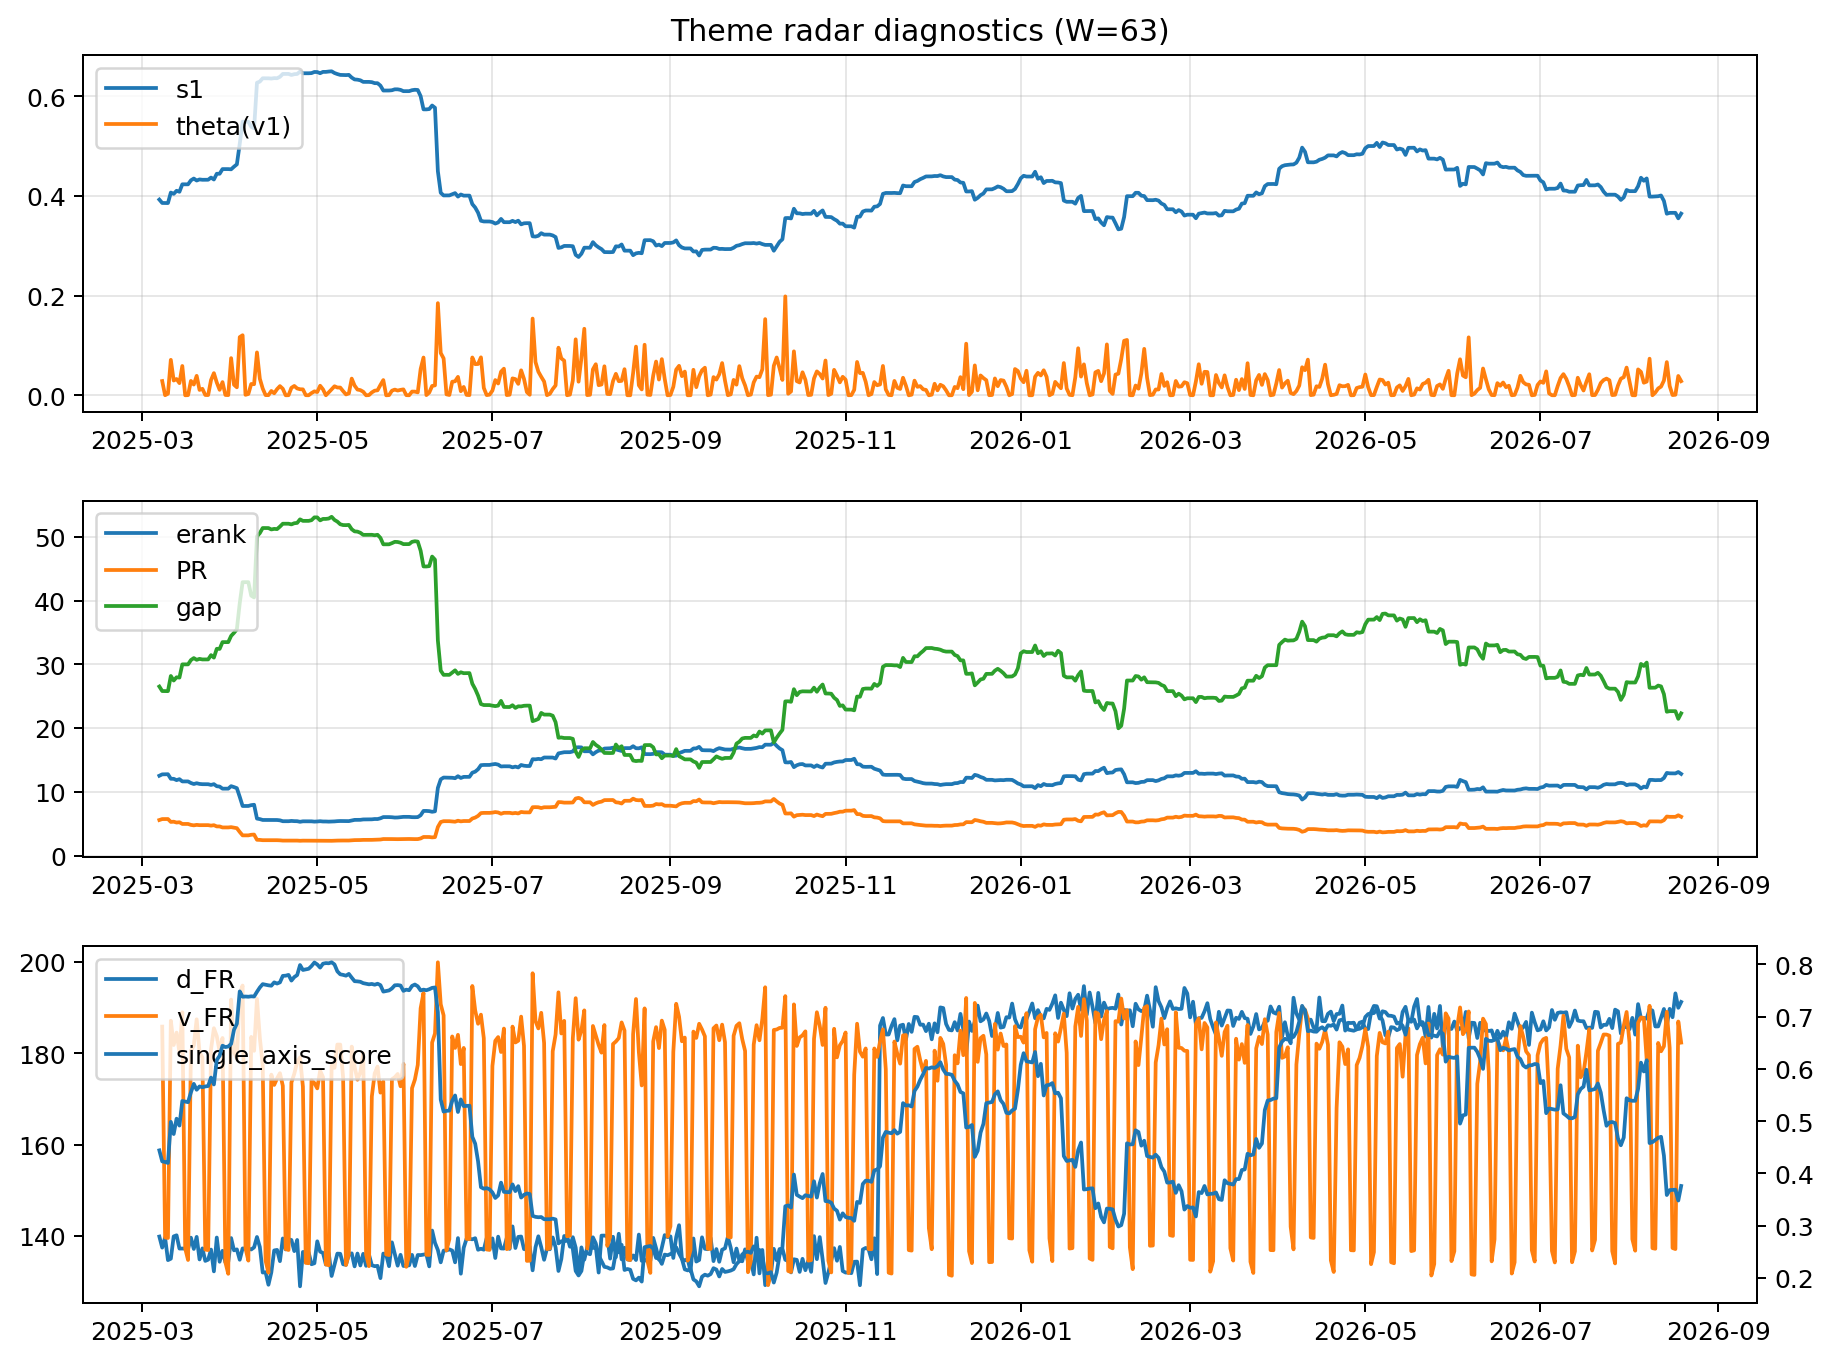
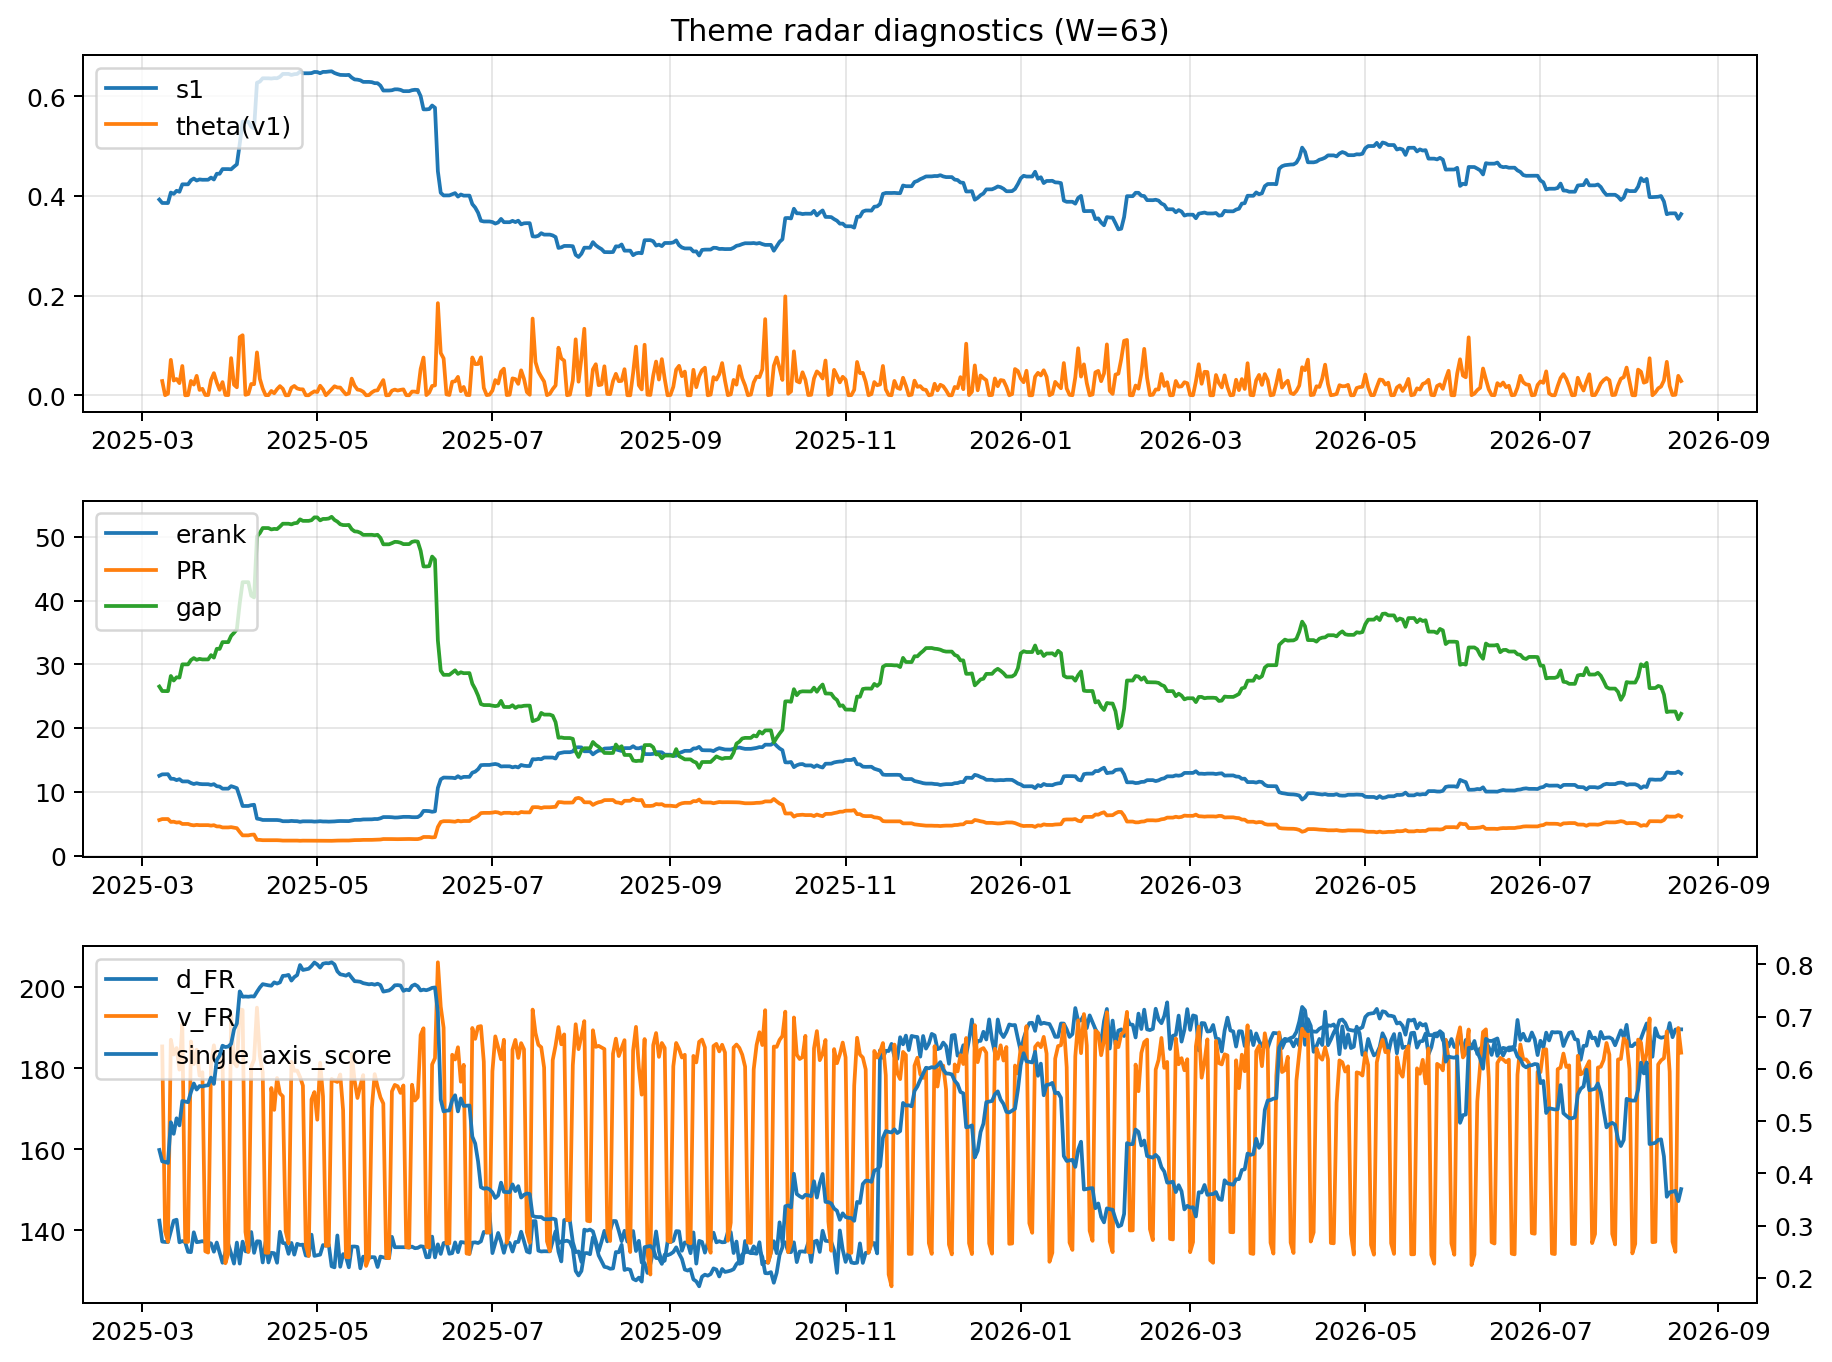
log: 2026-08-19 | sha256:92bdc14142805b2787f6384e80b9a3ecfbe5ab9a47c0404e998d2c56e6066078

diff --git a/logs/2026-08-19.md b/logs/2026-08-19.md
@@ -3,52 +3,52 @@
 ![diagnostic W63](../assets/diagnostic/2026-08-19_W63.png)
 
 ## Leaders (v1) — W=63
-- **Nuclear_Uranium** (0.0912699282706448)
-- Semis (0.0771003931207014)
-- Quantum (0.0662876099072166)
+- **Nuclear_Uranium** (0.0914244183100533)
+- Semis (0.0775141703900335)
+- Quantum (0.0664356546462558)
 
 ## Challengers — W=63
-**v2:** Software_Cloud (0.0854509265820699), Rates (0.077726266065079), Semis (0.0669045946034919)
-**v3:** Metals (0.1299188217415584), Crypto (0.0965335262590774), Miners (0.058157019198268)
+**v2:** Software_Cloud (0.0849472965270389), Rates (0.0776350193474254), Semis (0.0661377679040552)
+**v3:** Metals (0.1291824882471005), Crypto (0.0968935371190925), Miners (0.0568966753537758)
 
 ## Migration (20D slope) — W=63
 **Top risers:**
-- axis_Quantum: 0.0005216295246929
-- axis_Semis: 0.0005104707390127
-- axis_Commodities: 0.0004243507346062
-- axis_Grid_Power: 0.0002955421242036
-- axis_Space: 0.0002705006067771
-- axis_Sector_Health: 0.0002260189559386
-- axis_Sector_Energy: 0.0002063502046672
-- axis_Robotics: 0.0001943842152978
-- axis_Nuclear_Uranium: 0.0001757479550339
-- axis_Clean_Broad: 0.0001455549266326
+- axis_Semis: 0.0005340509745986
+- axis_Quantum: 0.0005315901590417
+- axis_Commodities: 0.0004219414423511
+- axis_Grid_Power: 0.0003115896148847
+- axis_Space: 0.000272883114762
+- axis_Sector_Health: 0.0002299119213711
+- axis_Sector_Energy: 0.0002070218885431
+- axis_Robotics: 0.0002014819476659
+- axis_Nuclear_Uranium: 0.0001863217535854
+- axis_Clean_Broad: 0.000163106287529
 
 **Top fallers:**
-- axis_USD: -0.000121002892477
-- axis_Vol: -0.0001284814237882
-- axis_Sector_ConsDisc: -0.0001404623257096
-- axis_Credit: -0.0001583624848944
-- axis_Sector_Materials: -0.0001672442284115
-- axis_Miners: -0.0002249641282903
-- axis_MegaCap_AI: -0.0002553834996278
-- axis_Crypto: -0.0003607283676097
-- axis_Metals: -0.0006975671378303
-- axis_Rates: -0.0007412220519061
+- axis_Software_Cloud: -0.0001112179406492
+- axis_USD: -0.0001207196208527
+- axis_Vol: -0.0001263698629536
+- axis_Sector_Materials: -0.0001708358967534
+- axis_Credit: -0.0002001773816445
+- axis_MegaCap_AI: -0.0002442059529815
+- axis_Miners: -0.0002660791440053
+- axis_Crypto: -0.0003636244479021
+- axis_Metals: -0.0006951288309198
+- axis_Rates: -0.000737567355557
 
 ## Risk line (W=63)
-- s1: 0.364425158979187
-- theta_v1: 0.0283460542511875
-- v_FR: 182.33833933208655
-- single_axis_score: 0.375894538606403
+- s1: 0.363423949828733
+- theta_v1: 0.0286291290438523
+- v_FR: 183.898953074711
+- single_axis_score: 0.3698681732580038
 
 ## Interpretation
 **Regime:** `theme_migration`
 
-- Action: Tomorrow watchlist: Quantum, Semis, Commodities, Grid_Power, Space + v2_top1=Software_Cloud
+- Action: Tomorrow watchlist: Semis, Quantum, Commodities, Grid_Power, Space + v2_top1=Software_Cloud
 - Action: Hedge note: normal correlation stability.
 
-- Percentiles (W=63 history): vfr_pct=0.61, theta_pct=0.64, s1_pct=0.28, score_pct=0.31.
+- Percentiles (W=63 history): vfr_pct=0.69, theta_pct=0.64, s1_pct=0.27, score_pct=0.29.
 
 ---
[2 lines of base64/hex data omitted]
